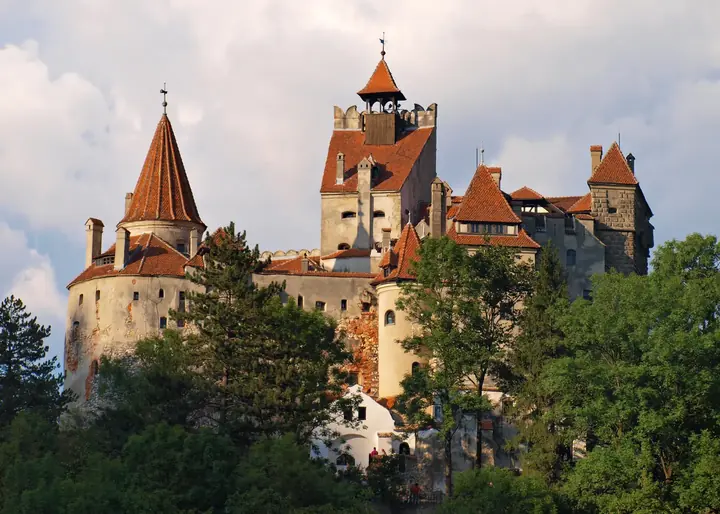
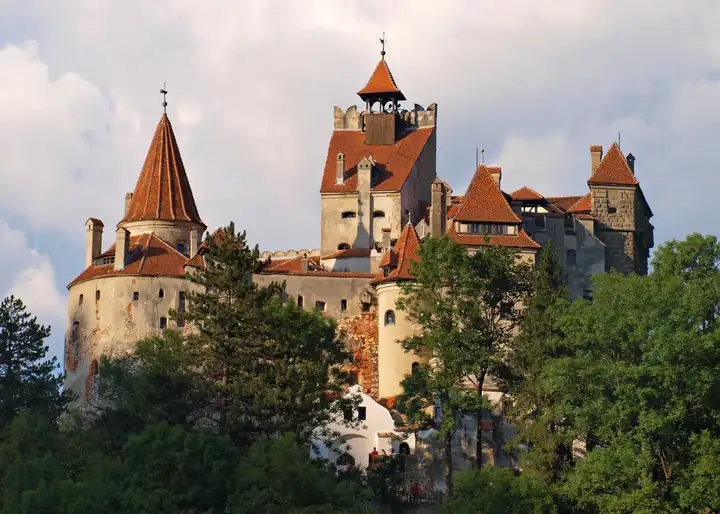
Viaqui: PageSpeed round 2 (largest paint on phones, images, page size)
- cookie banner: shown as soon as the page reaches it, not after base.js downloads
  (it is the largest text on a phone's first screen)
- category photos: 360 px variant and sizes that match the grid
- hero 720 px photos compressed harder
- footer city suggestions: built when a city field is first used (500 fewer elements per page)

diff --git a/resources/marketplaces/viaqui/assets/v2/js/base.js b/resources/marketplaces/viaqui/assets/v2/js/base.js
@@ -375,6 +375,23 @@
     });
   }
 
+  /* ---------- city suggestions (footer newsletter, partner forms): built when such a field is first used ---------- */
+  var ftrCities = $('ftr-cities');
+  if (ftrCities && ftrCities.hasAttribute('data-names')) {
+    var fillCities = function (e) {
+      if (!e.target || !e.target.getAttribute || e.target.getAttribute('list') !== 'ftr-cities') return;
+      document.removeEventListener('focusin', fillCities); document.removeEventListener('pointerover', fillCities);
+      var names = [];
+      try { names = JSON.parse(ftrCities.getAttribute('data-names')) || []; } catch (x) { names = []; }
+      ftrCities.removeAttribute('data-names');
+      var frag = document.createDocumentFragment();
+      names.forEach(function (n) { var o = document.createElement('option'); o.value = n; frag.appendChild(o); });
+      ftrCities.appendChild(frag);
+    };
+    document.addEventListener('focusin', fillCities);
+    document.addEventListener('pointerover', fillCities, { passive: true });
+  }
+
   /* ---------- language and currency menu ---------- */
   var langBtn = $('lang-btn'), langMenu = $('lang-menu');
   if (langBtn && langMenu) {

diff --git a/resources/marketplaces/viaqui/includes/v2/footer.php b/resources/marketplaces/viaqui/includes/v2/footer.php
@@ -72,7 +72,7 @@ sort($v2FootCityNames, SORT_FLAG_CASE | SORT_STRING);
       <form class="vf-nl-form" data-newsletter="footer" data-msg="ftr-nl-msg" data-ok="<?= v2_te('Done. Check your inbox to confirm.') ?>" data-err="<?= v2_te('We could not complete the subscription. Please try again.') ?>">
         <label class="vf-field"><span><?= v2_te('Email') ?></span><input id="ftr-email" name="email" type="email" required placeholder="<?= v2_te('you@example.com') ?>" autocomplete="email"></label>
         <label class="vf-field"><span><?= v2_t('Your city <i>(optional)</i>') ?></span><input id="ftr-city" name="city" type="text" list="ftr-cities" maxlength="80" placeholder="<?= v2_te('Where do you set off from?') ?>" autocomplete="off"></label>
-        <datalist id="ftr-cities"><?php foreach ($v2FootCityNames as $n): ?><option value="<?= v2_e($n) ?>"></option><?php endforeach; ?></datalist>
+        <datalist id="ftr-cities" data-names="<?= v2_e(json_encode(array_values($v2FootCityNames), JSON_UNESCAPED_UNICODE)) ?>"></datalist>
         <button class="btn vf-nl-go" type="submit"><?= v2_te('Subscribe') ?><?= v2_ic('arrow-right') ?></button>
       </form>
       <p class="form-msg" id="ftr-nl-msg" role="status" hidden></p>

diff --git a/resources/marketplaces/viaqui/includes/v2/home/sections.php b/resources/marketplaces/viaqui/includes/v2/home/sections.php
@@ -110,7 +110,7 @@ $hvSaturday = (new DateTimeImmutable('saturday this week', new DateTimeZone('Eur
     <ul class="v-cats" data-vreveal>
       <?php foreach ($V2['categories'] as $i => $c): [$look, $glyph] = V2_CAT_LOOK[$i % count(V2_CAT_LOOK)]; if ($look === 'p' && !$c['image']) { $look = 'f'; } ?>
       <li><a class="v-cat is-<?= $look ?>" href="<?= v2_e($c['href']) ?>">
-        <?php if ($look === 'p'): ?><img src="<?= v2_e($c['image']) ?>"<?= $c['srcset'] ? ' srcset="' . v2_e($c['srcset']) . '" sizes="(min-width:1024px) 25vw, 50vw"' : '' ?> alt="" loading="lazy" decoding="async" width="640" height="800"><?php else: ?><?= $hvGlyph($glyph) ?><?php endif; ?>
+        <?php if ($look === 'p'): ?><img src="<?= v2_e($c['image']) ?>"<?= $c['srcset'] ? ' srcset="' . v2_e($c['srcset']) . '" sizes="(min-width:1100px) 25vw, (min-width:720px) 33vw, 46vw"' : '' ?> alt="" loading="lazy" decoding="async" width="640" height="800"><?php else: ?><?= $hvGlyph($glyph) ?><?php endif; ?>
         <?php if ($c['count']): ?><span class="v-cat-n"><?= v2_e(v2_exp($c['count'])) ?></span><?php endif; ?>
         <h3><?= v2_e($c['name']) ?></h3>
         <?php if ($c['desc']): ?><p><?= v2_e($c['desc']) ?></p><?php endif; ?>

diff --git a/resources/marketplaces/viaqui/includes/v2/nav.php b/resources/marketplaces/viaqui/includes/v2/nav.php
@@ -96,7 +96,7 @@ foreach ($v2Parents as $c) {
         'desc' => trim((string) ($c['description'] ?? '')),
         'image' => $local ? v2_asset('img/cat-' . $imgKey . '.webp') : $apiImage,
         'thumb' => $local ? v2_asset('img/cat-' . $imgKey . '-320.webp') : $apiImage,
-        'srcset' => $local ? v2_asset('img/cat-' . $imgKey . '-320.webp') . ' 320w, ' . v2_asset('img/cat-' . $imgKey . '.webp') . ' 640w' : '',
+        'srcset' => $local ? v2_asset('img/cat-' . $imgKey . '-320.webp') . ' 320w, ' . v2_asset('img/cat-' . $imgKey . '-360.webp') . ' 360w, ' . v2_asset('img/cat-' . $imgKey . '.webp') . ' 640w' : '',
         'count' => (int) ($c['activities_count'] ?? 0) ?: (int) ($c['event_count'] ?? 0),
         'href' => '/' . $c['slug'],
         'subs' => $subs,

diff --git a/resources/marketplaces/viaqui/includes/v2/seed.php b/resources/marketplaces/viaqui/includes/v2/seed.php
@@ -69,7 +69,7 @@ function v2_seed_nav(): array
             'desc' => $desc,
             'image' => v2_asset('img/cat-' . $img . '.webp'),
             'thumb' => v2_asset('img/cat-' . $img . '-320.webp'),
-            'srcset' => v2_asset('img/cat-' . $img . '-320.webp') . ' 320w, ' . v2_asset('img/cat-' . $img . '.webp') . ' 640w',
+            'srcset' => v2_asset('img/cat-' . $img . '-320.webp') . ' 320w, ' . v2_asset('img/cat-' . $img . '-360.webp') . ' 360w, ' . v2_asset('img/cat-' . $img . '.webp') . ' 640w',
             'count' => 0,
             'href' => '/' . $slug,
             'subs' => array_map(function ($s) use ($slug) {

diff --git a/resources/marketplaces/viaqui/includes/v2/foot.php b/resources/marketplaces/viaqui/includes/v2/foot.php
@@ -19,6 +19,9 @@
     </div>
   </div>
 </section>
+<?php /* The banner is the largest text on a phone's first screen, so it must not wait for base.js to download:
+   shown here when no choice is stored (same key and version as base.js and head.php). */ ?>
+<script>(function(){try{var s=JSON.parse(localStorage.getItem('bo_cookie_consent_v1'));if(s&&s.version==='2026-05-26'&&s.consent)return}catch(e){}document.getElementById('cc-banner').hidden=false})();</script>
 <div class="cc-dialog" id="cc-dialog" role="dialog" aria-modal="true" aria-labelledby="cc-title" data-lenis-prevent hidden>
   <div class="cc-panel">
     <div class="cc-top">
